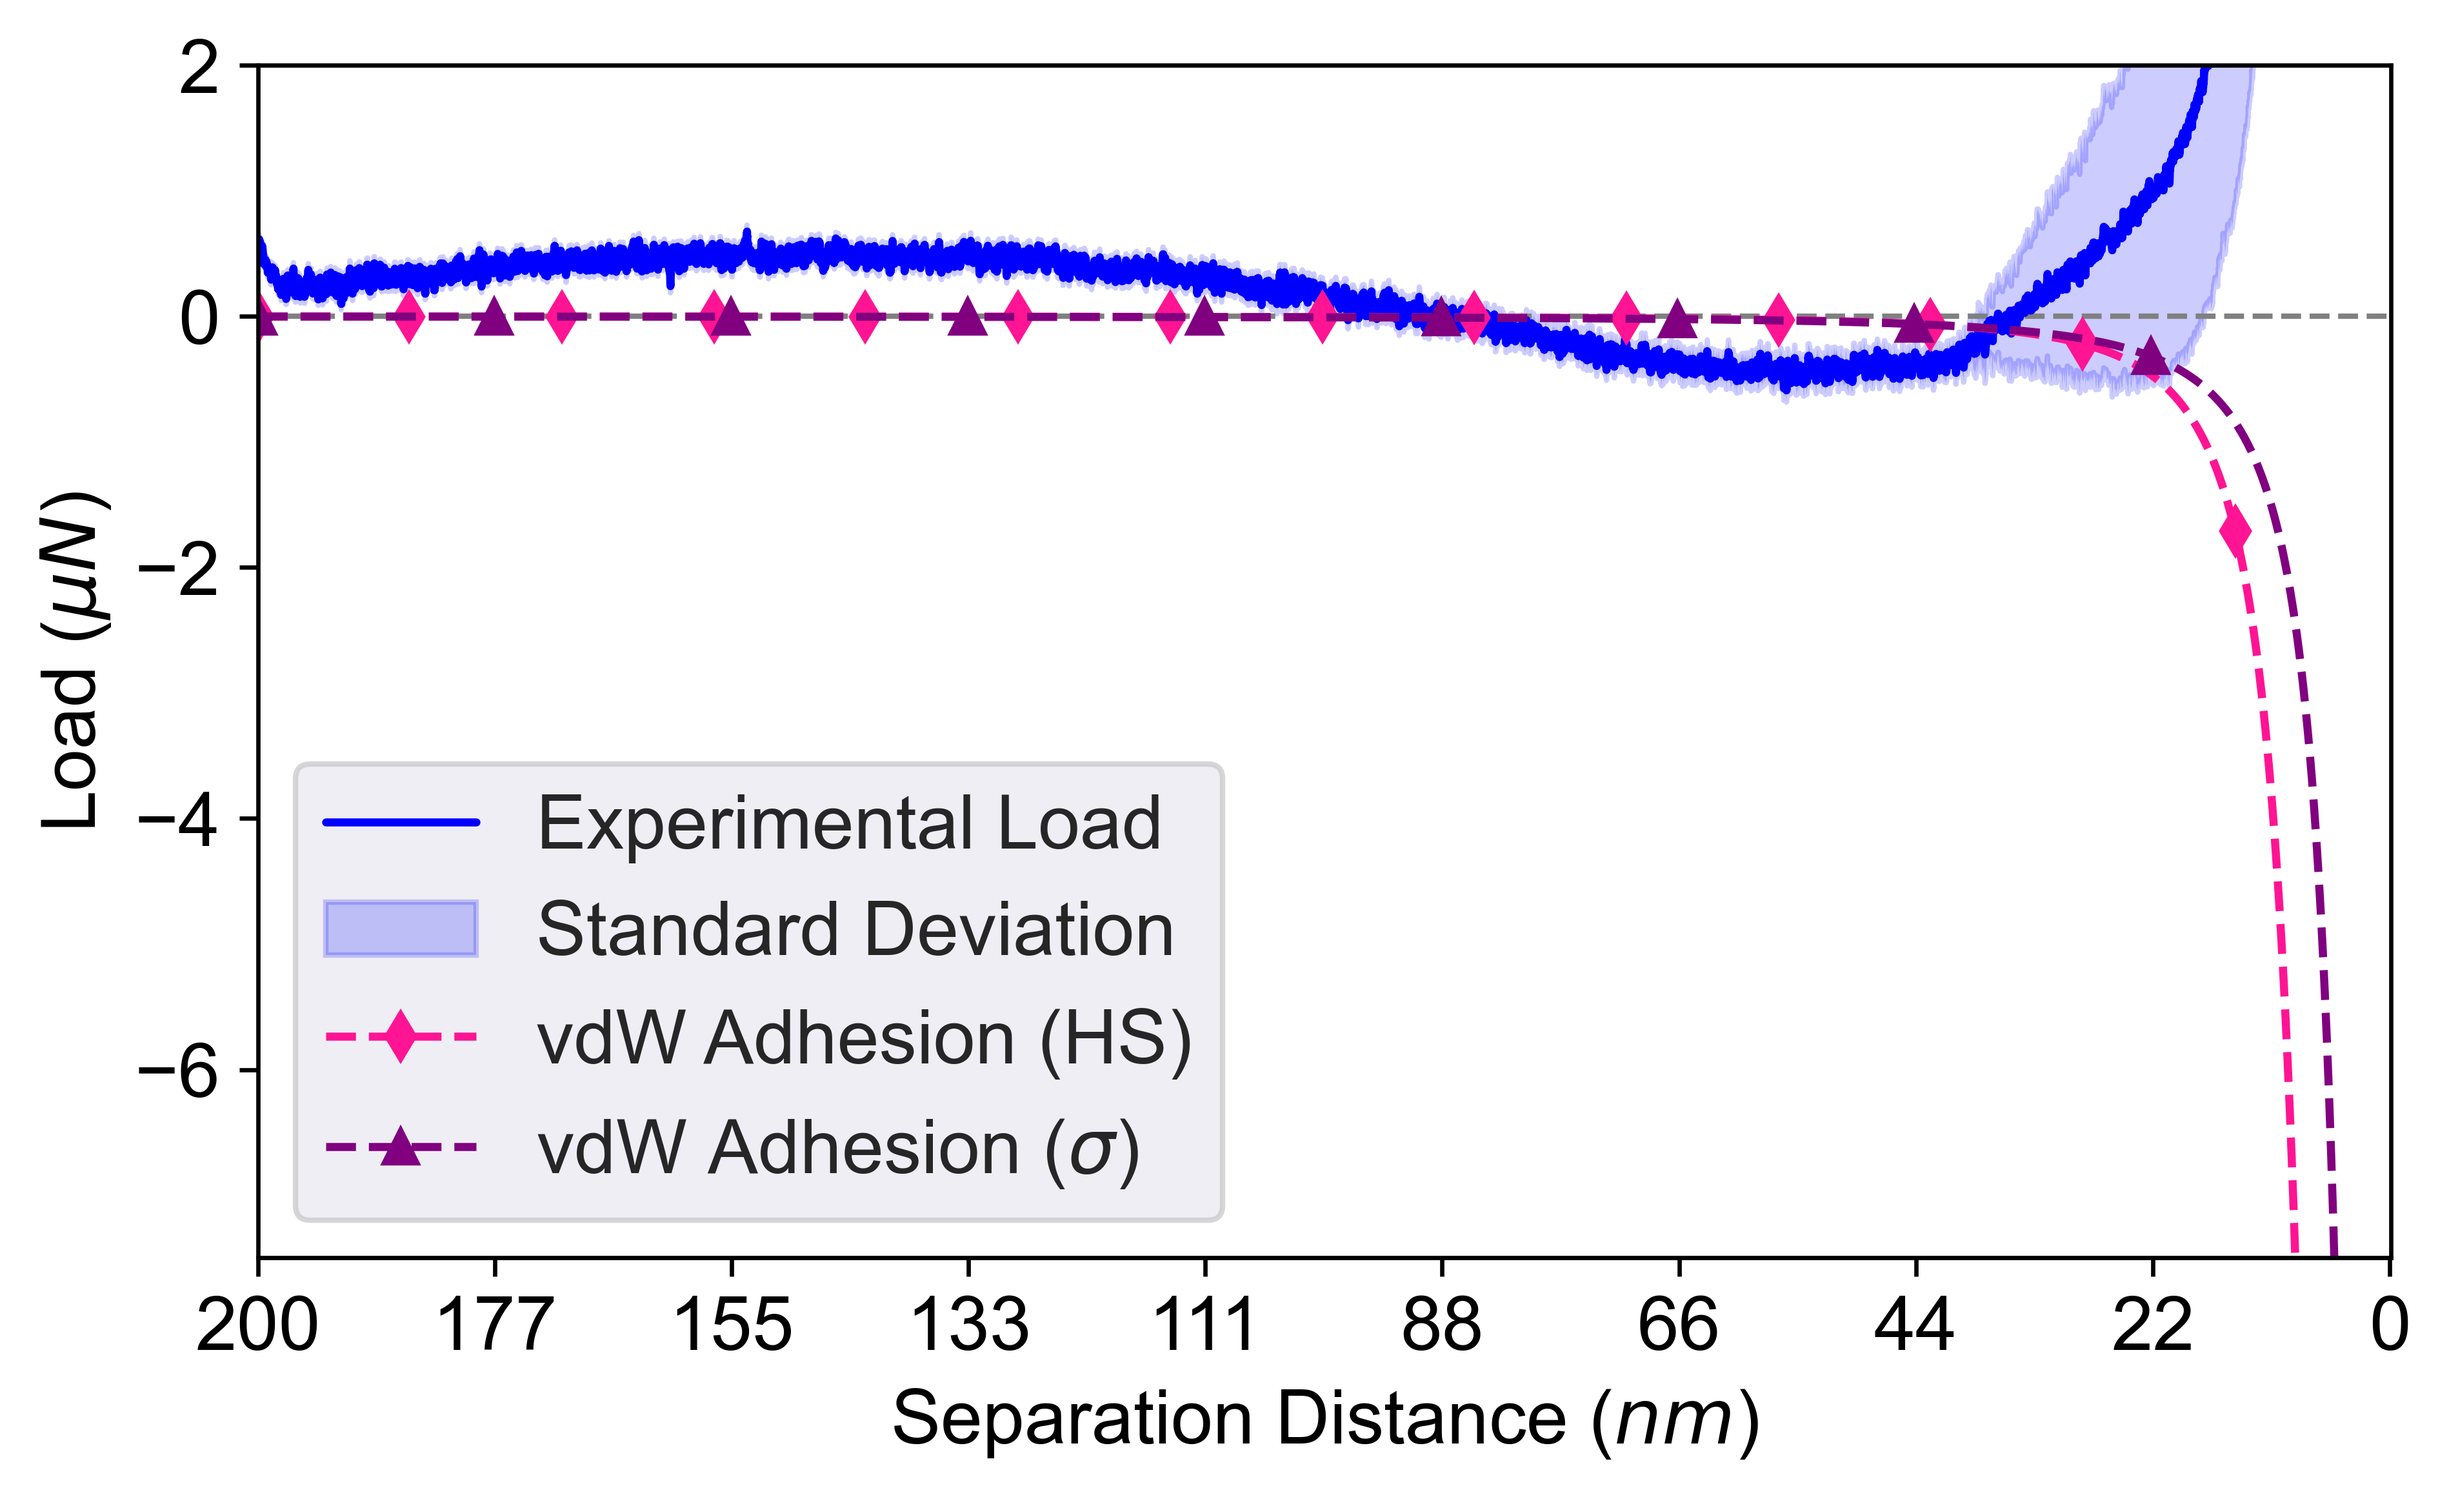
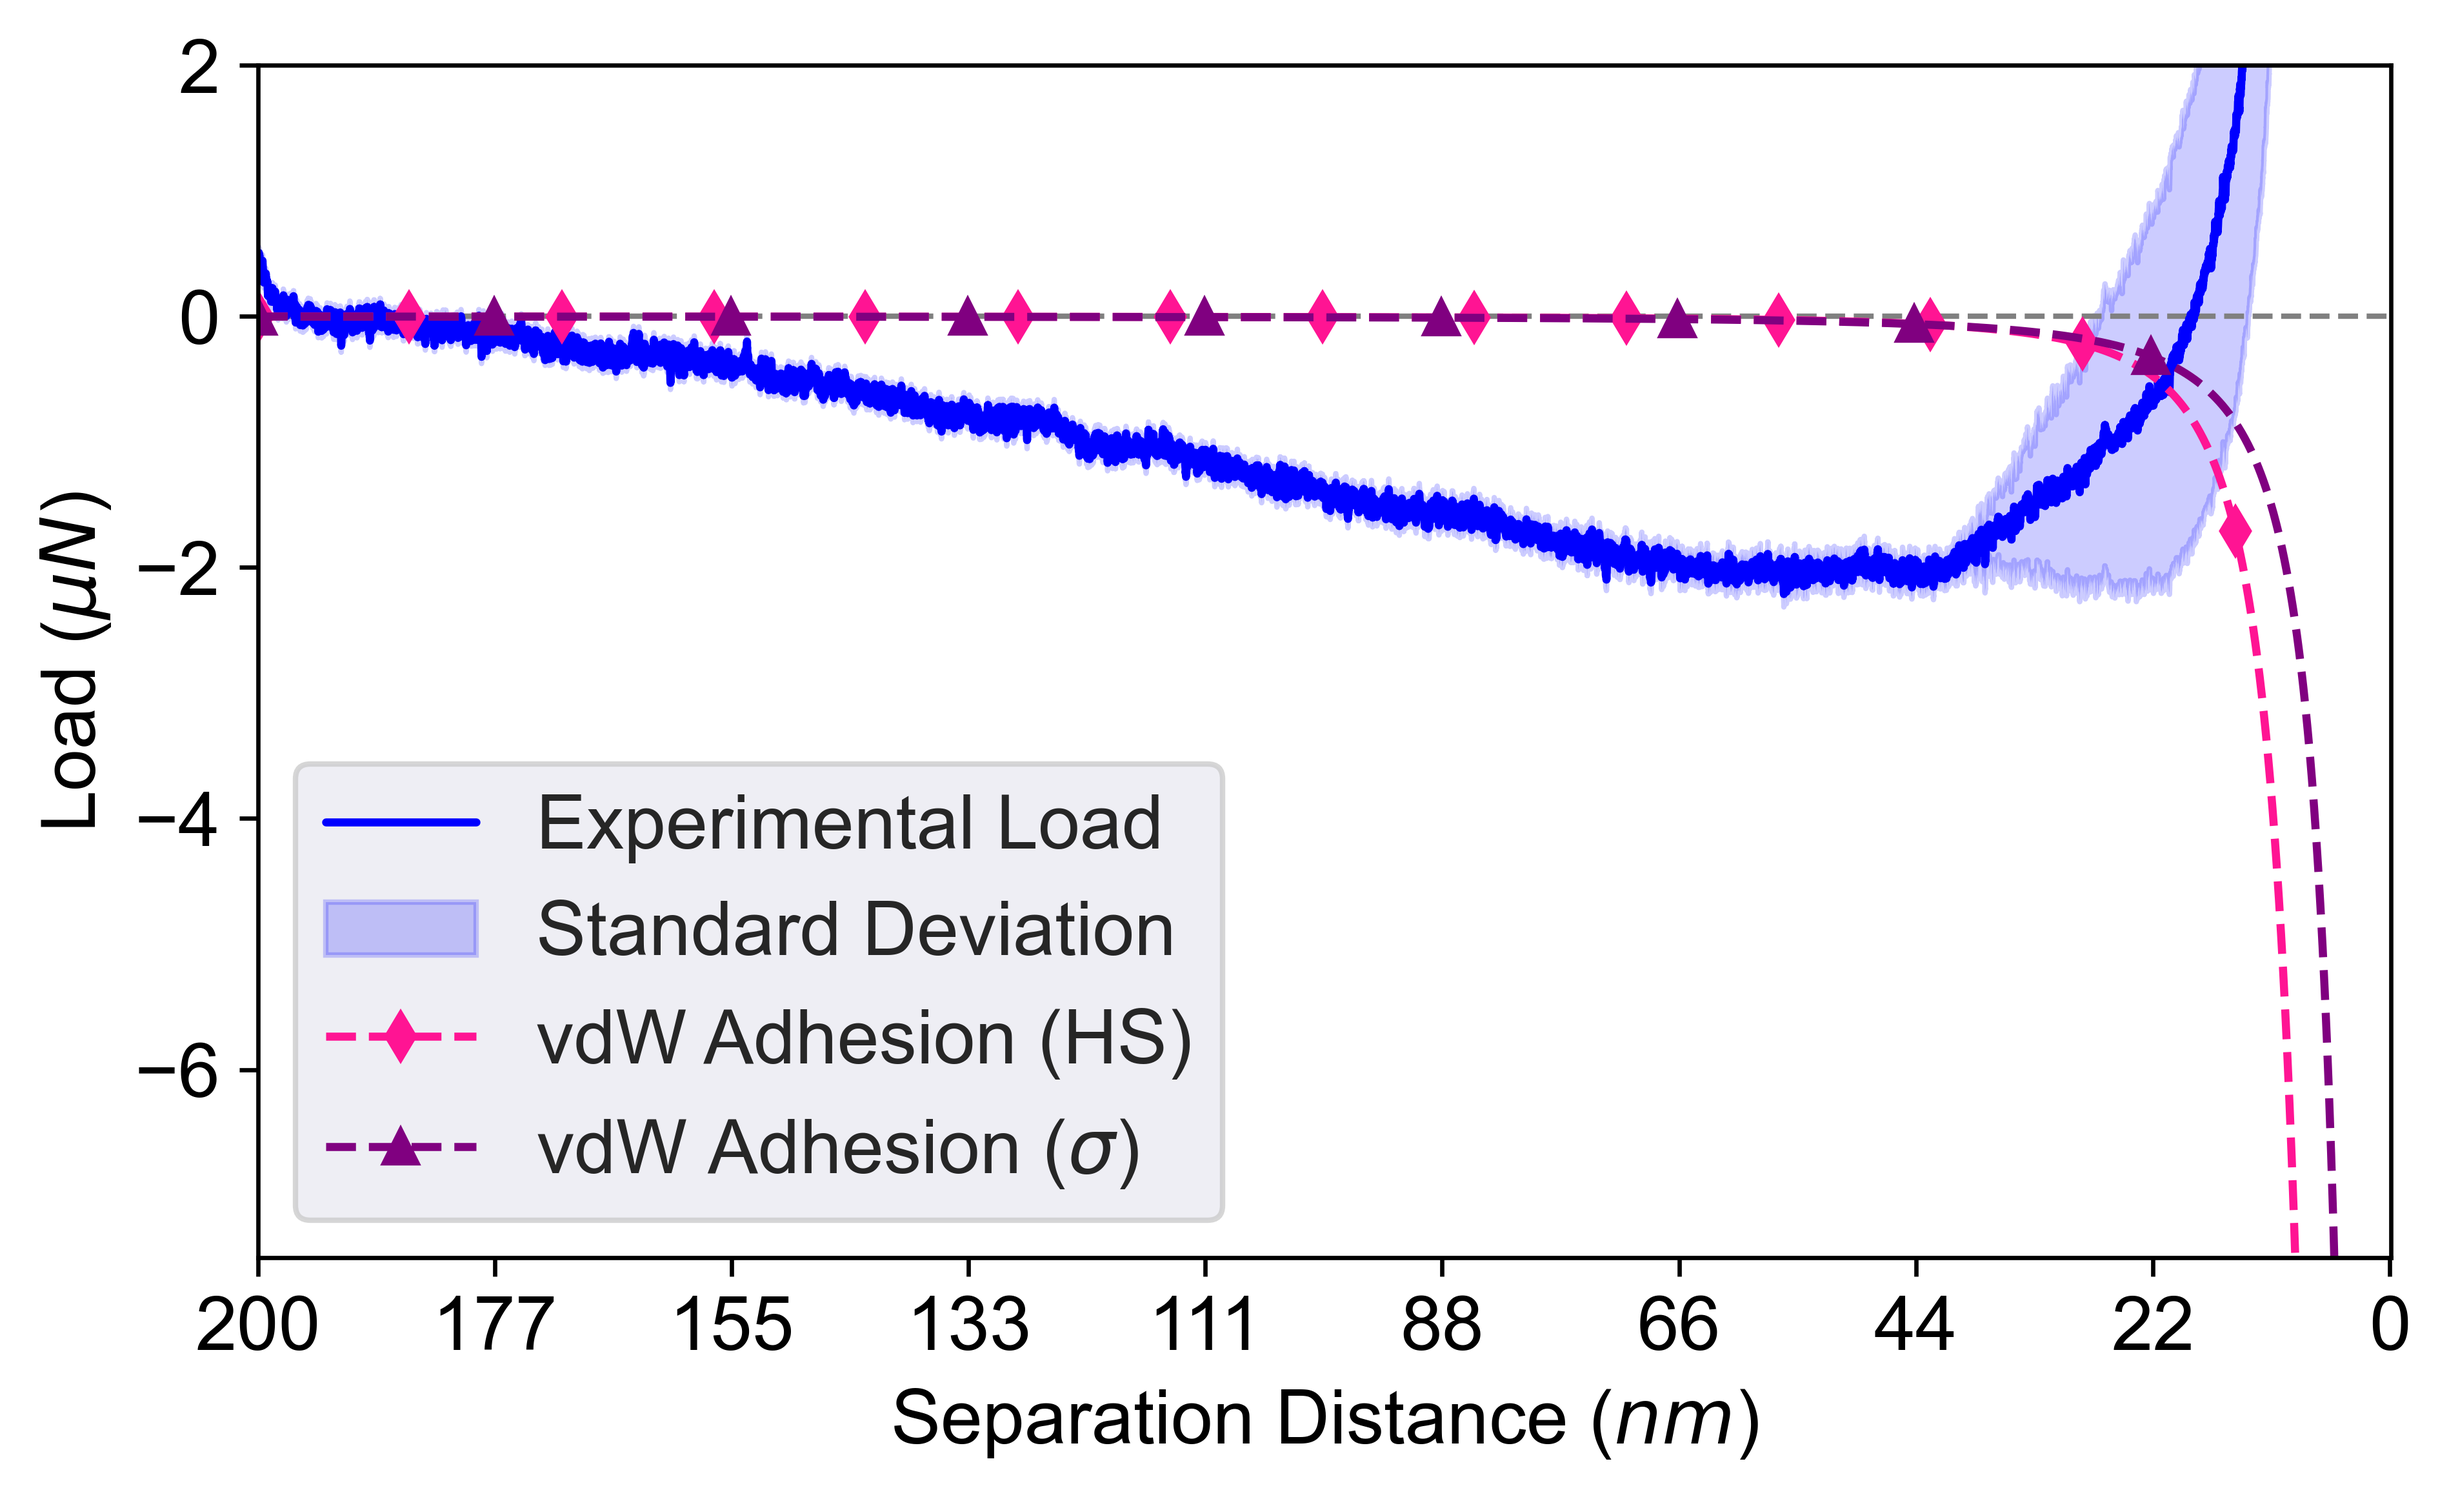
modification to project structure

Changed region(s): [[0.0933, 0.031, 0.9326, 0.4029]]

diff --git a/src/plot_model-vdw_only.py b/src/plot_model-vdw_only.py
@@ -3,12 +3,14 @@ import glob
 import logging
 import os
 import sys
+import shutil
 import types
 import matplotlib.pyplot as plt
 import numpy as np
 import pandas as pd
 import pandas.plotting
 import seaborn as sns
+from scipy.signal import find_peaks, savgol_filter
 from scipy.integrate import quad
 from scipy.misc import derivative
 
@@ -93,6 +95,7 @@ def load_model_files(csv_dir):
 
     # Calculate averages and standard deviations along the file axis (rows)
     x_mean = np.mean(x_data, axis=0)
+    x_std = np.std(x_data, axis=0)
 
     y_mean = np.mean(y_data, axis=0)
     y_std = np.std(y_data, axis=0)
@@ -108,19 +111,29 @@ def plot_data_multi_trace_poly(param_y="T", param_x="T", data_paths=None):
     log = logging.getLogger(__name__)
     log.debug("in")
 
+    plot_param_options = {
+        "Depth_(nm)": {'label': "Depth", 'hi': 4, 'lo': 0, 'lbl': "Depth(nm)"},
+        "Load_(µN)": {'label': "Force", 'hi': 400, 'lo': 0, 'lbl': "Load(µN)"},
+        "Time_(s)": {'label': "Time", 'hi': 300, 'lo': 0, 'lbl': "Time (sec)"},
+        "Depth_(V)": {'label': "Depth", 'hi': 4, 'lo': 0, 'lbl': "Depth (V)"},
+        "Load_(V)": {'label': "Force", 'hi': 400, 'lo': 0, 'lbl': "Load (V)"}
+    }
+
     dfs = []
     for file in data_paths:
         print(f"loading...{file}")
         df = load_file(file)
 
-        levels_up = os.path.abspath(os.path.join(file, "../"))
+        two_levels_up = os.path.abspath(os.path.join(file, "../../"))
         keyword = 'Air_Indent'
 
         # Search for a file that contains the keyword in its name
+        file_found = False
+        # Search for a file that contains the keyword in its name
         found_file_path = None
-        for file_name in os.listdir(levels_up):
+        for file_name in os.listdir(two_levels_up):
             if keyword in file_name:
-                found_file_path = os.path.join(levels_up, file_name)
+                found_file_path = os.path.join(two_levels_up, file_name)
                 break
 
         # Print the result
@@ -130,14 +143,11 @@ def plot_data_multi_trace_poly(param_y="T", param_x="T", data_paths=None):
 
             # Assuming 'Load (µN)' is the column that needs normalization
             if 'Load_(µN)' in df.columns and 'Load_(µN)' in df_air.columns:
-                # Interpolating the Air_Indent data to match experimental
-                df_air_interpolated = df_air.reindex(df.index,
-                                                     method='nearest')
+                # Interpolating the Air_Indent data to match experimental data if needed
+                df_air_interpolated = df_air.reindex(df.index, method='nearest')
 
                 # Subtracting air indentation load from experimental load
-                df['Load_(µN)'] = (
-                    df['Load_(µN)'] - df_air_interpolated['Load_(µN)']
-                )
+                df['Load_(µN)'] = df['Load_(µN)'] - df_air_interpolated['Load_(µN)']
 
                 # Print or save the normalized dataframe
                 print(df.head())  # For testing, you can see the top few rows
@@ -160,7 +170,7 @@ def plot_data_multi_trace_poly(param_y="T", param_x="T", data_paths=None):
         print(df)
         dfs.append(df)
 
-    figsize = 4
+    figsize = 4  # 12 has been default
     figdpi = 600
     hwratio = 16. / 9
     fig = plt.figure(figsize=(figsize * hwratio, figsize), dpi=figdpi)
@@ -170,12 +180,11 @@ def plot_data_multi_trace_poly(param_y="T", param_x="T", data_paths=None):
     hold_y = []
     with sns.axes_style("darkgrid"):
         for df in dfs:
-            lab = df.meta.run
+            lab =  df.meta.run
             file = df.meta.file
-            df = df.iloc[np.linspace(0, len(df) - 1,
-                                     num=int(len(df) * 0.1), dtype=int)]
+            df = df.iloc[np.linspace(0, len(df) - 1, num=int(len(df) * 0.1), dtype=int)]
             x = df[param_x]
-            y = df[param_y]
+            y = df[param_y] #- df[param_y].iloc[-1]
             x = x.dropna()
             y = y.dropna()
 
@@ -184,6 +193,13 @@ def plot_data_multi_trace_poly(param_y="T", param_x="T", data_paths=None):
             x = x.loc[valid_index]
             y = y.loc[valid_index]
 
+            min_index = y.idxmin()
+            # Select the data from the start to the min_index
+            #x = -x
+            y = y
+            min_index = np.argmin(y)
+
+            # ax.plot(x, y)#, label=f"Experimental Trial: {df.meta.run}")
             hold_x.append(x)
             hold_y.append(y)
 
@@ -211,8 +227,7 @@ def plot_data_multi_trace_poly(param_y="T", param_x="T", data_paths=None):
         # Display the combined and interpolated DataFrame
         df_combined['Average'] = df_combined.mean(axis=1)
         df_combined['STD'] = df_combined.std(axis=1)
-        df_combined['SEM'] = (df_combined['STD'] /
-                              np.sqrt(df_combined.notna().sum(axis=1)))
+        df_combined['SEM'] = df_combined['STD'] / np.sqrt(df_combined.notna().sum(axis=1))
 
         df_combined = df_combined.iloc[::4]
         depth = df_combined.index  # Depth values (formerly 'X')
@@ -228,58 +243,59 @@ def plot_data_multi_trace_poly(param_y="T", param_x="T", data_paths=None):
                         load_average - load_std, load_average + load_std,
                         color='blue', alpha=0.2, label='Standard Deviation')
         if param_x == "Time_(s)":
-            xh = 160
+            xh = 160 # max(x)
             xl = 0
             xh = None
             xl = None
         elif param_x == "Depth_(nm)":
-            xh = 0.1
+            xh = 0.1 # max(x)
             xl = -200
         else:
             xh = None
             xl = None
 
         def model(x):
-            R = (130 * 1e-9) / 2
+            R = (130*1e-9)/2
             N = 74357
-            x = x * 1e-9
+            x = x*1e-9
             Ah = 27.2 * 10**-20
-            sigma = 13.204 * 1e-9
-
+            D = 21.456 * 1e-6
+            Area = np.pi * (D / 2)**2
+            sigma = 13.204*1e-9
+            # Define PDF function
             def PDF(x):
-                # Define PDF function
-                return ((1 / (sigma * (2 * np.pi)**0.5)) *
-                        np.exp((-1 / 2) * (x / sigma)**2))
+                return (1 / (sigma * (2 * np.pi)**0.5)) * np.exp((-1 / 2) * (x / sigma)**2)
 
             # Numerical integration for n
-            z = 200 * 1e-9
-            n_integral, _ = quad(PDF, z, np.inf)
+            z = 200*1e-9
+            n_integral, _ = quad(PDF, z, np.inf)  # Integrate PDF from z to infinity
             n = N * n_integral
 
             # Interaction energy at specific separation distance
             def W_i(x):
-                return -((1 / 6) * Ah * (R / x + R / (2 * R + x) +
-                                         np.log(x / (2 * R + x))))
+                return -((1 / 6) * Ah * (R / x + R / (2 * R + x) + np.log(x / (2 * R + x))))#*1e6#*1e18
 
             # Numerical derivative of W_i
             def dW_i(x):
                 return derivative(W_i, x, dx=1e-10)
 
             # Total energy
-            W = -(n * dW_i(x) + (N - n) * dW_i(x)) * 1e6
+            W = -(n * dW_i(x) + (N - n) * dW_i(x))*1e6
             return W
 
         # Array setup
         step = -0.1
-        x = np.arange(200, 0 - step, step)
-        W = model(abs(x))
+        x = np.arange(200, 0-step, step)
+        W= model(abs(x))
 
         def model_2(x):
-            x = x * 1e-9
+            x = x*1e-9
             Ah = 27.2 * 10**-20
             D = 21.456 * 1e-6
             Area = np.pi * (D / 2)**2
-            return -(Ah * Area) / (6 * np.pi * x**3) * 1e6
+
+            #return -(Ah * Area)/(12*np.pi*x**2)*1e12
+            return -(Ah* Area)/(6*np.pi*x**3)*1e6#*1e18
 
         W2 = model_2(abs(x))
 
@@ -288,35 +304,34 @@ def plot_data_multi_trace_poly(param_y="T", param_x="T", data_paths=None):
         marker_indices2 = np.linspace(0, len(x) - 1, 15, dtype=int)
 
         # Plot vdW Adhesion with markers and line
-        ax.plot(-1 * x, W2, label='vdW Adhesion (HS)', color='#FF1493',
-                linestyle='--', marker='d', markevery=marker_indices2)
-        ax.plot(-1 * x, W, label='vdW Adhesion ($\\sigma$)', color='purple',
-                linestyle='--', marker='^', markevery=marker_indices)
+        ax.plot(-1*x, W2, label='vdW Adhesion (HS)', color='#FF1493', linestyle='--', marker='d', markevery=marker_indices2)
+        ax.plot(-1*x, W, label='vdW Adhesion ($\sigma$)', color='purple', linestyle='--', marker='^', markevery=marker_indices)
         ax.set_xlim([xl, xh])
         ax.set_xlabel("Separation Distance ($nm$)", fontsize=14)
 
         # Customize x-axis ticks to display absolute values
         ax.set_xticks(np.linspace(-200, 0, 10))  # Define tick positions
-        ax.set_xticklabels(np.abs(ax.get_xticks()).astype(int), fontsize=14)
+        ax.set_xticklabels(np.abs(ax.get_xticks()).astype(int), fontsize=14)  # Convert to positive labels
         ax.set_ylim([-7.5, 2])
         ax.tick_params(axis='y', labelsize=14)
-        ax.set_ylabel("Load ($\\mu N$)", fontsize=14)
+        ax.set_ylabel("Load ($\mu N$)", fontsize=14)
         ax.legend(loc='lower left', fontsize=14)
-        # plt.show()
+        #plt.show()
 
         logging.info(sys._getframe().f_code.co_name)
-        plot_fn = f"out/plot-{param_y}-vs-{param_x}-vdw_only.png"
+        plot_fn = "out/plot-{}-vs-{}-vdw_only.png".format(
+            param_y, param_x, run)
+
         logging.info("write plot to: {}".format(plot_fn))
         fig.savefig(plot_fn, bbox_inches='tight')
     return
-
-
 def main():
     cmd_args = parse_command_line()
     setup_logging(cmd_args['verbosity'])
-    plot_data_multi_trace_poly(param_y="Load_(µN)", param_x="Depth_(nm)",
-                               data_paths=cmd_args['input'])
 
+    plot_data_multi_trace_poly(param_y="Load_(µN)",
+                               param_x="Depth_(nm)",
+                               data_paths=cmd_args['input'])
 
 if "__main__" == __name__:
     try:
